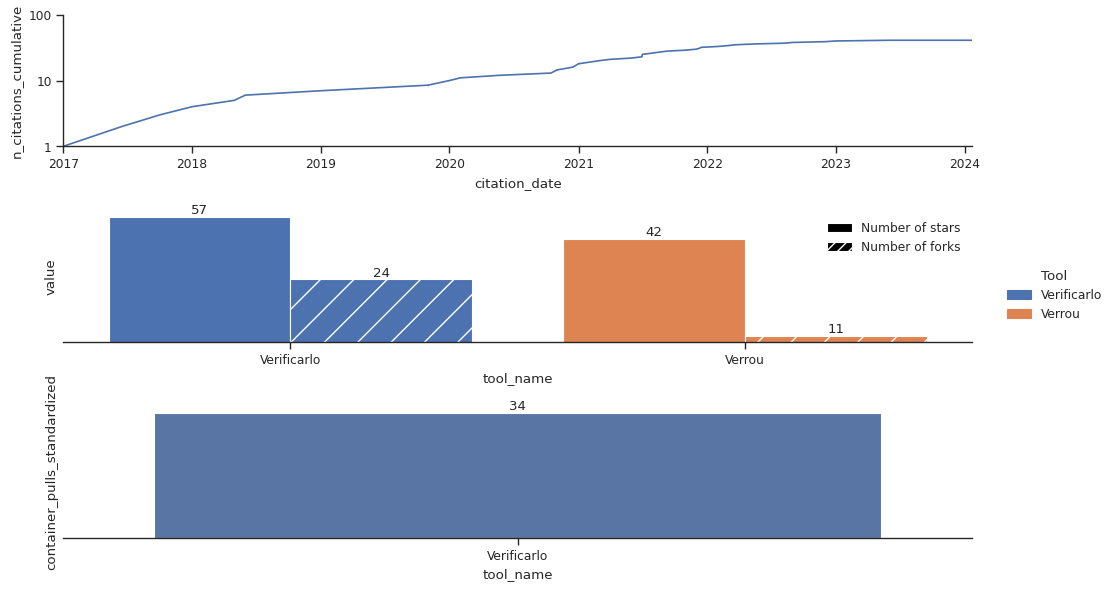
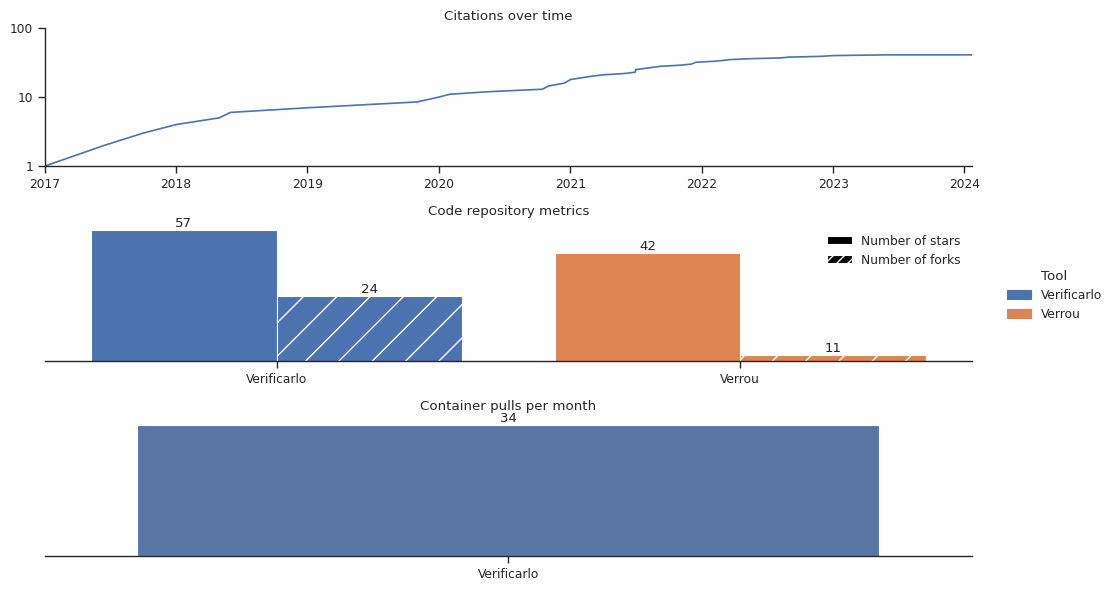
use axis title instead of x/y labels

diff --git a/code/generate_figures.py b/code/generate_figures.py
@@ -97,6 +97,8 @@ def plot_citations(df_metrics: pd.DataFrame, ax=None, date_corrections=None, pal
         palette=palette,
     )
 
+    ax.set_title('Citations over time')
+
     return ax
 
 def plot_repo(df_metrics: pd.DataFrame, ax=None, hatches=None, palette=None) -> plt.Axes:
@@ -150,6 +152,8 @@ def plot_repo(df_metrics: pd.DataFrame, ax=None, hatches=None, palette=None) -> 
         frameon=False,
     )
 
+    ax.set_title('Code repository metrics')
+
     return ax
 
 def plot_containers_pulls(df_metrics: pd.DataFrame, ax=None, palette=None) -> plt.Axes:
@@ -161,6 +165,7 @@ def plot_containers_pulls(df_metrics: pd.DataFrame, ax=None, palette=None) -> pl
         hue=COL_NAME,
         palette=palette,
     )
+    ax.set_title('Container pulls per month')
     return ax
 
 def plot_python_timeseries(df_metrics: pd.DataFrame, ax=None, palette=None) -> plt.Axes:
@@ -232,6 +237,8 @@ def plot_python_timeseries(df_metrics: pd.DataFrame, ax=None, palette=None) -> p
         palette=palette,
     )
 
+    ax.set_title('Python package downloads in the last 180 days')
+
     return ax
 
 def plot_python_total(df_metrics: pd.DataFrame, ax=None, palette=None) -> plt.Axes:
@@ -243,6 +250,7 @@ def plot_python_total(df_metrics: pd.DataFrame, ax=None, palette=None) -> plt.Ax
         hue=COL_NAME,
         palette=palette,
     )
+    ax.set_title('Total Python package downloads')
     return ax
 
 def process_palette(df_metrics: pd.DataFrame, palette=None) -> Mapping[str, str]:

diff --git a/code/plotting.py b/code/plotting.py
@@ -28,6 +28,8 @@ def plot_timeseries(data, x, y, log_scale=True, **kwargs):
     ax.get_yaxis().set_major_formatter(FormatStrFormatter('%.0f'))
     ax.set_ylim(bottom=1)
     ax.set_xlim(left=min(data[x]), right=max(data[x]))
+    ax.set_xlabel('')
+    ax.set_ylabel('')
     sns.despine(ax=ax)
     return ax
 
@@ -41,5 +43,7 @@ def plot_bar(data, x, y, log_scale=False, **kwargs):
         ax.set_yscale('log')
         ax.minorticks_off()
     ax.set_yticks([])
+    ax.set_xlabel('')
+    ax.set_ylabel('')
     sns.despine(ax=ax, left=True)
     return ax
